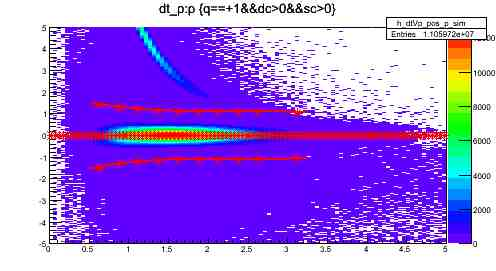
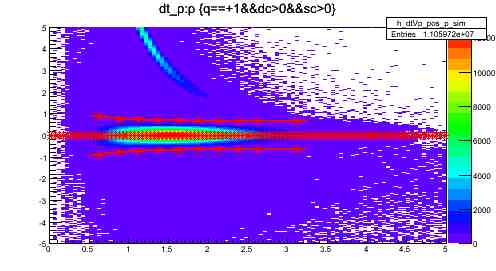
WIP: Re-visit electron selection: + Added proc_efid_new.h and fidfuncs.C to implement Evan's electron fiducial cuts 	+ This also caused changes to data_efid.h/.cpp and proc_h10.cpp + In order to test full reconstructed yields after using ProcEFidNew, I re-ran the process of making suring that the PI

Changed region(s): [[0.1815, 0.3542, 0.6653, 0.4723], [0.1512, 0.5314, 0.6351, 0.6494]]

diff --git a/fidfuncs.C b/fidfuncs.C
@@ -1,0 +1,100 @@
+#include "TF1.h"
+
+Double_t getPaddleWeight(Int_t sector, Int_t paddle) {
+  Bool_t pw[6][51];
+  for (int i = 0; i < 6; i++) {
+    for (int j = 0; j < 51; j++) {
+      pw[i][j] = 1;
+    }
+  }
+  pw[0][24] = pw[0][42] = pw[0][46] = pw[0][47] = 0;
+  pw[1][16] = pw[1][38] = pw[1][41] = pw[1][42] = pw[1][44] = pw[1][45] = pw[1][46] = pw[1][48] = 0;
+  pw[2][2] = pw[2][11] = pw[2][24] = pw[2][25] = pw[2][27] = pw[2][28] = pw[2][40] = pw[2][41] = pw[2][42] = pw[2][43] = pw[2][44] = 0;
+  pw[3][34] = pw[3][42] = pw[3][44] = pw[3][45] = pw[3][48] = 0;
+  pw[4][2] = pw[4][18] = pw[4][34] = pw[4][36] = pw[4][40] = pw[4][42] = pw[4][43] = pw[4][44] = 0;
+  pw[5][1] = pw[5][18] = pw[5][40] = pw[5][42] = pw[5][43] = pw[5][45] = pw[5][46] = pw[5][47] = 0;
+  return (Double_t)(pw[sector-1][paddle]);
+}
+
+Double_t getPhiFid(Double_t p, Double_t theta, Int_t sector,
+		Int_t tightness = 1, Int_t t0tightness = 0) {
+	Int_t isector = sector-1;
+	Double_t t1mt0[] = {8,8,8,8,8,8};
+	Double_t ma[] = {1.5,1.5,1.5,1.5,1.5,1.5};
+	Double_t mb[] = {0.1,0.1,0.1,0.1,0.1,0.1};
+	Double_t t2[] = {70,70,70,70,70,70};
+	Double_t t0parms[6][3] =
+		{	{10.787299801658907, 22.45857319517163, 0.21749987294959106},
+			{10.828070790230456, 22.12341012158817, 0.19010756666978365},
+			{9.312911097075856, 30.973375501625757, 0.5039814192331635},
+			{11.520929543525531, 19.709322349228394, 0.13831688498503214},
+			{9.529958851709138, 29.55466910593996, 0.45512398922081015},
+			{9.971998112496019, 28.44016526621845, 0.44311697599215194}
+		};
+	Double_t phi0parms[6][4] =
+		{	{1.6839188190954342, 10.474164108316266, -3.0499977341743354, 3.432592304744964},
+			{1.6762956840192975, 10.2529104749553, -3.449091515358539, 3.6491736492791502},
+			{1.6999999999990663, 9.97998798303922, -2.5398914524479257, 1.928870428609786},
+			{1.3000000000023624, 12.675184729042954, -5.858975050283604, 6.157806651701965},
+			{1.6499998517208754, 11.32820223312787, -3.1583551082351176, 2.499451832577039},
+			{1.3253604827603942, 11.464333746894148, -3.454330645184062, 3.0981926752851523}
+		};
+	//calculate min theta, parameter t0
+	Double_t irat = 3375.0/2250.0;
+	Double_t t0, t0a, t0b, t0c;
+	t0a = t0parms[isector][0];
+	t0b = t0parms[isector][1];
+	t0c = t0parms[isector][2];
+	t0 = t0a + t0b/((p+t0c)*irat);
+	//calculate phi value at min theta, parameter phi0
+	Double_t phi0, xl0l1, y0l0, ml0, ml1;
+	xl0l1 = phi0parms[isector][0];
+	y0l0 = phi0parms[isector][1];
+	ml0 = phi0parms[isector][2];
+	ml1 = phi0parms[isector][3];
+	if (p <= xl0l1) phi0 = y0l0 + ml0*p;
+	else phi0 = (y0l0 + ml0*p) + ml1*(p-xl0l1);
+	//calculate phi boundary
+	Double_t phib = 0;
+	Double_t t1 = t0 + t1mt0[isector];
+	if ( theta <= t0+t0tightness || theta >= t2[isector] ) phib = 0;
+	else {
+		Double_t phi1 = phi0 + ma[isector]*(t1-t0);
+		if ( theta > t0 && theta < t1 ) phib = phi0 + ma[isector]*(theta-t0);
+		else if ( theta >= t1 && theta < t2[isector] ) phib = phi1 + mb[isector]*(theta-t1);
+	}
+	phib -= tightness;
+	phib = phib <= 0 ? 0 : phib;
+	return phib;
+}
+
+Double_t dPhiFid(Double_t *x, Double_t *parms) {
+	Double_t theta = x[0];
+	Double_t p = parms[0];
+	Int_t sector = parms[1];
+	Double_t tightness = parms[2];
+	Double_t t0tightness = parms[3];
+	Int_t w = parms[4];
+	Double_t phib = getPhiFid(p, theta, sector, tightness, t0tightness);
+	return w*phib;
+}
+
+TF1* fPhiFid(Double_t p, Int_t sector, Int_t weight = 1,
+		Double_t tightness = 0, Double_t t0tightness = 0) {
+	TF1 *retFunc = new TF1("fphifid",dPhiFid,0,70,5);
+	retFunc->SetParameters(p,sector,tightness,t0tightness,weight);
+	return retFunc;
+}
+	
+Bool_t inFid(Double_t p, Double_t theta, Double_t phi,
+		Int_t sector, Double_t tightness = 1, Double_t t0tightness = 0) {
+	Int_t isector = sector-1;
+	Double_t phib = getPhiFid(p, theta, sector, tightness, t0tightness);
+	//make sure phi is between -30 and 330 degrees
+	phi = phi >= 330 ? phi-360 : (phi<-30 ? phi+360 : phi);
+	//rotate to sector center = 0 degrees
+	phi -= 60*isector;
+	return (phi < phib && phi > -1*phib);  //symmetric boundary
+	//return Fid::Instance()->InFid(p,theta,phi,sector,11,tightness);
+}
+

diff --git a/proc_efid_new.h b/proc_efid_new.h
@@ -1,0 +1,139 @@
+#ifndef PROCEFIDNEW_H
+#define PROCEFIDNEW_H
+
+#include "ep_processor.h" // Base class: EpProcessor
+#include "data_h10.h"
+#include "fidfuncs.C"
+#include "wrpr_cut_fid_e16.h"
+#include <TMath.h>
+
+using namespace TMath;
+
+class ProcEFidNew : public EpProcessor {
+
+public:
+	ProcEFidNew(TDirectory *td,DataH10* dataH10,DataAna* dataAna);
+	~ProcEFidNew();
+	
+	void handle();
+	//void write();
+	
+protected:	
+	//Bool_t inFid();
+	void updateEFid();
+	static const Int_t NUM_EVTCUTS = 2;
+	enum { EVT_NULL, EVT, EVT_PASS};
+
+	TDirectory* _dirmon;
+	TDirectory* _dircut;
+};
+
+ProcEFidNew::ProcEFidNew(TDirectory *td,DataH10* dataH10,DataAna* dataAna)
+                   :EpProcessor(td, dataH10, dataAna)
+{	
+	if (dH10->expt=="e1f") {
+    	Info("ProcEFidNew::ProcEFidNew()", "dH10.expt==E1F. Will use E1F Fiducial cuts"); 
+    }else if (dH10->expt=="e16") {
+    	Info("ProcEFidNew::ProcEFidNew()", "dH10.expt==E16. Will use E16 Fiducial cuts"); 
+    }else{
+    	Info("ProcEFidNew::ProcEFidNew()", "Could not determine dH10.expt! Will use E1F Fiducial cuts");
+    }
+
+	td->cd();
+	hevtsum = new TH1D("hevtsum","Event Statistics",NUM_EVTCUTS,0.5,NUM_EVTCUTS+0.5);
+	hevtsum->GetXaxis()->SetBinLabel(EVT,"Total");
+	hevtsum->GetXaxis()->SetBinLabel(EVT_PASS,"pass");
+
+	//! Monitor output objects
+	_dirmon = dirout->mkdir(TString::Format("monitor"));
+	dAna->makeHistsEFid(hists[MONMODE][EVTINC], _dirmon);
+
+	//! Cut output objects
+	_dircut = dirout->mkdir(TString::Format("cut"));
+	dAna->makeHistsEFid(hists[CUTMODE][EVTINC], _dircut);
+}
+
+ProcEFidNew::~ProcEFidNew()
+{
+	delete _dirmon;
+	delete _dircut;
+}
+
+void ProcEFidNew::handle()
+{
+	//Info("ProcEFidNew::handle()", "");
+	pass = kFALSE;
+	hevtsum->Fill(EVT);
+	
+	
+	//! Monitoring mode
+	updateEFid();
+	dAna->fillHistsEFid(hists[MONMODE][EVTINC]);
+		
+	//! Cut mode
+	//dAna->efid.fidE = inFid();
+	dAna->efid.fidE = inFid(dAna->efid.p,dAna->efid.theta,dAna->efid.phi,dAna->efid.sector);
+	if (dAna->efid.fidE)
+	{
+		hevtsum->Fill(EVT_PASS);
+		dAna->fillHistsEFid(hists[CUTMODE][EVTINC]);/* code */
+		
+		pass = kTRUE;
+		EpProcessor::handle();
+	}
+}
+
+/*Bool_t ProcEFidNew::inFid() {
+		
+	Int_t id = dH10->id[0];
+	Double_t p = dH10->p[0];
+	Float_t theta = RadToDeg()*ACos(dH10->cz[0]);
+	Float_t phi = RadToDeg()*ATan2(dH10->cy[0],dH10->cx[0]); //phitmp = [-180,180]
+	Int_t scidx = dH10->sc[0]-1;
+	Int_t sector = 1;
+	Int_t paddle = 0;
+	if (scidx >= 0) {
+		sector = dH10->sc_sect[scidx];
+		paddle = dH10->sc_pd[scidx];
+	}
+
+	Bool_t inFid=false;
+	if (dH10->expt=="e1f"){
+		inFid = Cuts::Fiducial(id, p, theta, phi, sector, paddle);
+	}else if (dH10->expt=="e16"){
+        inFid = Fiducial_e16_elctrn(id,p, theta, phi);
+    }else{//! [05-17-15] For now, if expt is not determined, use E1F Fiducial cuts
+    	inFid = Cuts::Fiducial(id, p, theta, phi, sector, paddle);
+    }
+	return inFid;
+}*/
+
+void ProcEFidNew::updateEFid() {
+	TLorentzVector _4vE1;
+		
+	Float_t mom;
+	Float_t px;
+	Float_t py;
+	Float_t pz;
+	mom = dH10->p[0];
+	px = mom*dH10->cx[0];
+	py = mom*dH10->cy[0];
+	pz = mom*dH10->cz[0];
+	_4vE1.SetPxPyPzE(px,py,pz,Sqrt(mom*mom+MASS_E*MASS_E));
+	
+	Int_t sector = dH10->sc_sect[dH10->sc[0]-1];
+	Double_t phi = _4vE1.Phi()*RadToDeg(); //phi = [-180,180]
+	//ensure that phi is between -30 and 330
+    phi = phi < -30 ? phi += 360 : phi;
+    		
+	dAna->efid.sector = sector;	
+	dAna->efid.p = mom;
+	dAna->efid.phi = phi;
+	dAna->efid.theta = _4vE1.Theta()*RadToDeg();
+	dAna->efid.dc_xsc = dH10->dc_xsc[dH10->dc[0]-1];
+	dAna->efid.dc_ysc = dH10->dc_ysc[dH10->dc[0]-1];
+	dAna->efid.ech_x = dH10->ech_x[dH10->ec[0]-1];
+	dAna->efid.ech_y = dH10->ech_y[dH10->ec[0]-1];
+}
+
+#endif // PROCEFIDNEW_H

diff --git a/sub_studies/study_efid/plot_fid.py b/sub_studies/study_efid/plot_fid.py
@@ -67,9 +67,9 @@ def plot_fid(rctn,nentries=1000000000):
 	#! Get FIN, T and make FOUT	
 	if (rctn=='2pi'):
 		#! Input objects
-		#FIN[EXP]=ROOT.TFile(("%s/defid.root"%os.environ['STUDY_EFID_2PI_DATADIR_EXP']))
+		FIN[EXP]=ROOT.TFile(("%s/defid.root"%os.environ['STUDY_EFID_2PI_DATADIR_EXP']))
 		FIN[SIM]=ROOT.TFile(("%s/defid.root"%os.environ['STUDY_EFID_2PI_DATADIR_SIM']))	
-		#T[EXP]=FIN[EXP].Get("d2piR/tR")
+		T[EXP]=FIN[EXP].Get("d2piR/tR")
 		T[SIM]=FIN[SIM].Get("d2piR/tR")
 		#! Output objects
 		OUTDIR=("%s/hists"%os.environ['STUDY_EFID_2PI_DATADIR'])
@@ -80,9 +80,9 @@ def plot_fid(rctn,nentries=1000000000):
 		
         elif (rctn=='elast'):
 		#! Input objects
-		#FIN[EXP]=ROOT.TFile(("%s/defid.root"%os.environ['STUDY_EFID_ELAST_DATADIR_EXP']))
+		FIN[EXP]=ROOT.TFile(("%s/defid.root"%os.environ['STUDY_EFID_ELAST_DATADIR_EXP']))
                 FIN[SIM]=ROOT.TFile(("%s/defid.root"%os.environ['STUDY_EFID_ELAST_DATADIR_SIM']))
-		#T[EXP]=FIN[EXP]->Get("delast/t");
+		T[EXP]=FIN[EXP].Get("delast/t");
  		T[SIM]=FIN[SIM].Get("delast/t");
 		#! Output objects
                 OUTDIR=("%s/hists"%os.environ['STUDY_EFID_ELAST_DATADIR'])
@@ -97,7 +97,7 @@ def plot_fid(rctn,nentries=1000000000):
 	#! Start making plots H[DTYP][NHST][NPRT][NSCTR]
 	c=ROOT.TCanvas() #! default canvas
 	for idtyp in range(NDTYP):
-		if idtyp==EXP: continue
+		#if idtyp==EXP: continue
 		for ihst in range(NHST):
 			for iprt in range(NPRT):
 				for isctr in range(NSCTR):
@@ -126,7 +126,7 @@ def plot_fid(rctn,nentries=1000000000):
 	#! + Draw plots intereactively
 	#! + Save to .root file and .jpg
 	for idtyp in range(NDTYP):
-		if idtyp==EXP: continue
+		#if idtyp==EXP: continue
 		#! For .jpg output
 		outdir="%s/%s"%(OUTDIR,DTYP_NAME[idtyp])
 		if not os.path.exists(outdir):

diff --git a/proc_h10.cpp b/proc_h10.cpp
@@ -6,6 +6,7 @@
 #include "proc_eid.h"
 #include "proc_delast.h"
 #include "proc_efid.h"
+#include "proc_efid_new.h"
 #include "proc_eeff.h"
 #include "proc_pid.h"
 #include "proc_pid_new.h"
@@ -234,6 +235,7 @@ EpProcessor* SetupProcs(){
          /*else if (str.EqualTo("efidmon"))    proc = new ProcEFid(mkdir("efid"),dH10,dAna,kTRUE);
          else if (str.EqualTo("efidmononly"))proc = new ProcEFid(mkdir("efid"),dH10,dAna,kTRUE,kTRUE);*/
          else if (str.EqualTo("eeff"))       proc = new ProcEEff(mkdir("eeff"),dH10,dAna);
+         else if (str.EqualTo("efidnew"))       proc = new ProcEFidNew(mkdir("efid"),dH10,dAna);
          //else if (str.EqualTo("delast"))     proc = new ProcDelast(mkdir("delast"),dH10,dAna);
          else if (str.EqualTo("delastT"))            proc = new ProcDelast(mkdir("delast"),dH10,dAna,kTRUE, kFALSE);
          else if (str.EqualTo("delastT_tree"))       proc = new ProcDelast(mkdir("delast"),dH10,dAna,kTRUE, kFALSE,kTRUE);

diff --git a/sub_studies/study_pid/obtain_dtVp_cut.C b/sub_studies/study_pid/obtain_dtVp_cut.C
@@ -83,8 +83,8 @@
         Float_t constant=fitf->GetParameter(0);
         float mean=fitf->GetParameter(1);
         float sigma=fitf->GetParameter(2);
-        float mean_plus_3sigma=mean+5*sigma;
-        float mean_minus_3sigma=mean-5*sigma;
+        float mean_plus_3sigma=mean+3*sigma;
+        float mean_minus_3sigma=mean-3*sigma;
         //Fill hmean,hsigma3
         float pavg=(pmin[j][ibin]+pmax[j][ibin])/2;
         int bavg=hmean->GetXaxis()->FindBin(pavg);

diff --git a/data_efid.cpp b/data_efid.cpp
@@ -11,5 +11,5 @@ DataEFid::~DataEFid()
 void DataEFid::Clear()
 {
 	fidE = kFALSE;
-        sector = phi = theta = dc_xsc = dc_ysc = ech_x = ech_y = 0;
+        sector = p = phi = theta = dc_xsc = dc_ysc = ech_x = ech_y = 0;
 }

diff --git a/data_efid.h b/data_efid.h
@@ -12,6 +12,7 @@ public:
 	void Clear();
 	Bool_t fidE;
         Int_t sector;
+    Float_t p;
 	Float_t phi;
 	Float_t theta;
         Float_t dc_xsc;
